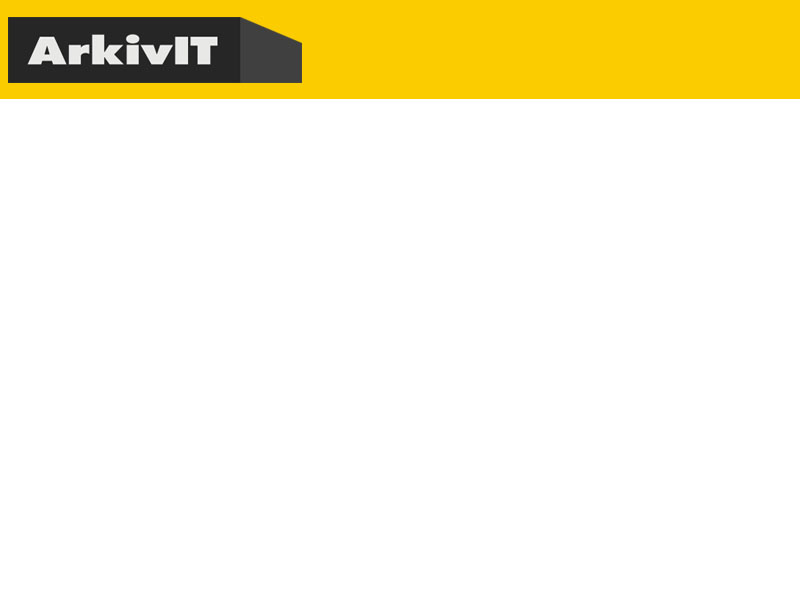
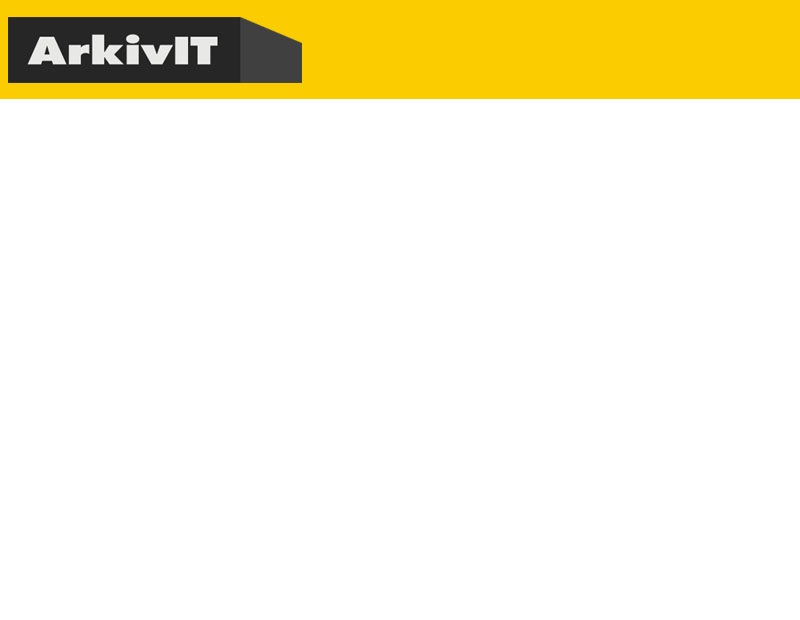
Pic changed to fit in the scene

Changed region(s): [[0.0, 0.06, 1.0, 0.18], [0.0, 0.0, 0.3125, 0.03], [0.3125, 0.03, 0.3438, 0.06]]

diff --git a/src/com/arkivit/view/ExcelAppGUIFX.java b/src/com/arkivit/view/ExcelAppGUIFX.java
@@ -192,7 +192,7 @@ public class ExcelAppGUIFX{
 		
 		//root.getChildren().add(hbBtn);
 		
-		firstScene = new Scene(root, 800, 600);
+		firstScene = new Scene(root, 800, 620);
 		firstScene.getStylesheets().add("resources/style/style.css");
 		
 		
